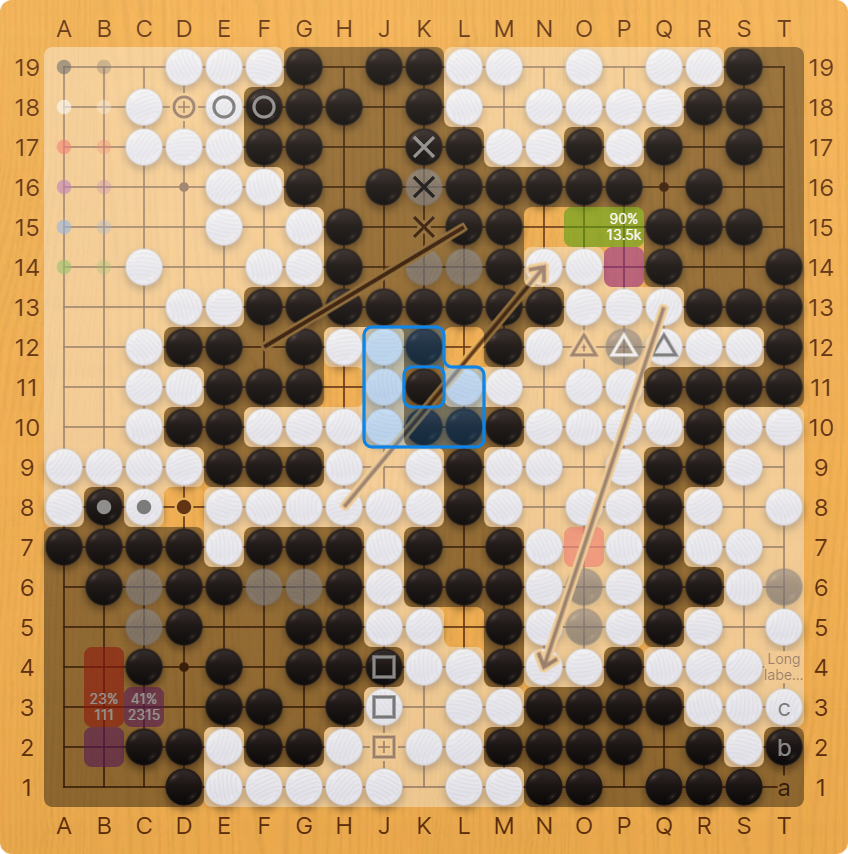
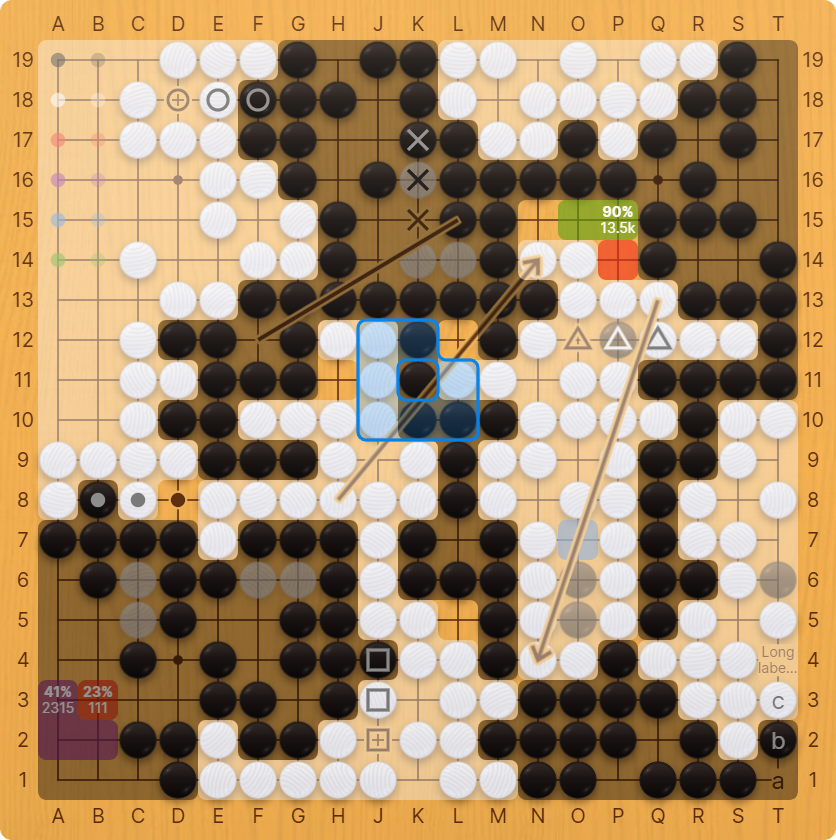
Update screenshot

Changed region(s): [[0.0, 0.0, 0.9952, 0.9905]]

diff --git a/src/coord.tsx b/src/coord.tsx
@@ -39,6 +39,7 @@ export const Coord: FunctionalComponent<{
               style={{
                 display: "grid",
                 placeItems: "center",
+                fontSize: `min(${unitCSS(1 / 1.7)}, 1em)`,
                 gridRow: () =>
                   direction() === "column" ? labels().length - i() : undefined,
               }}